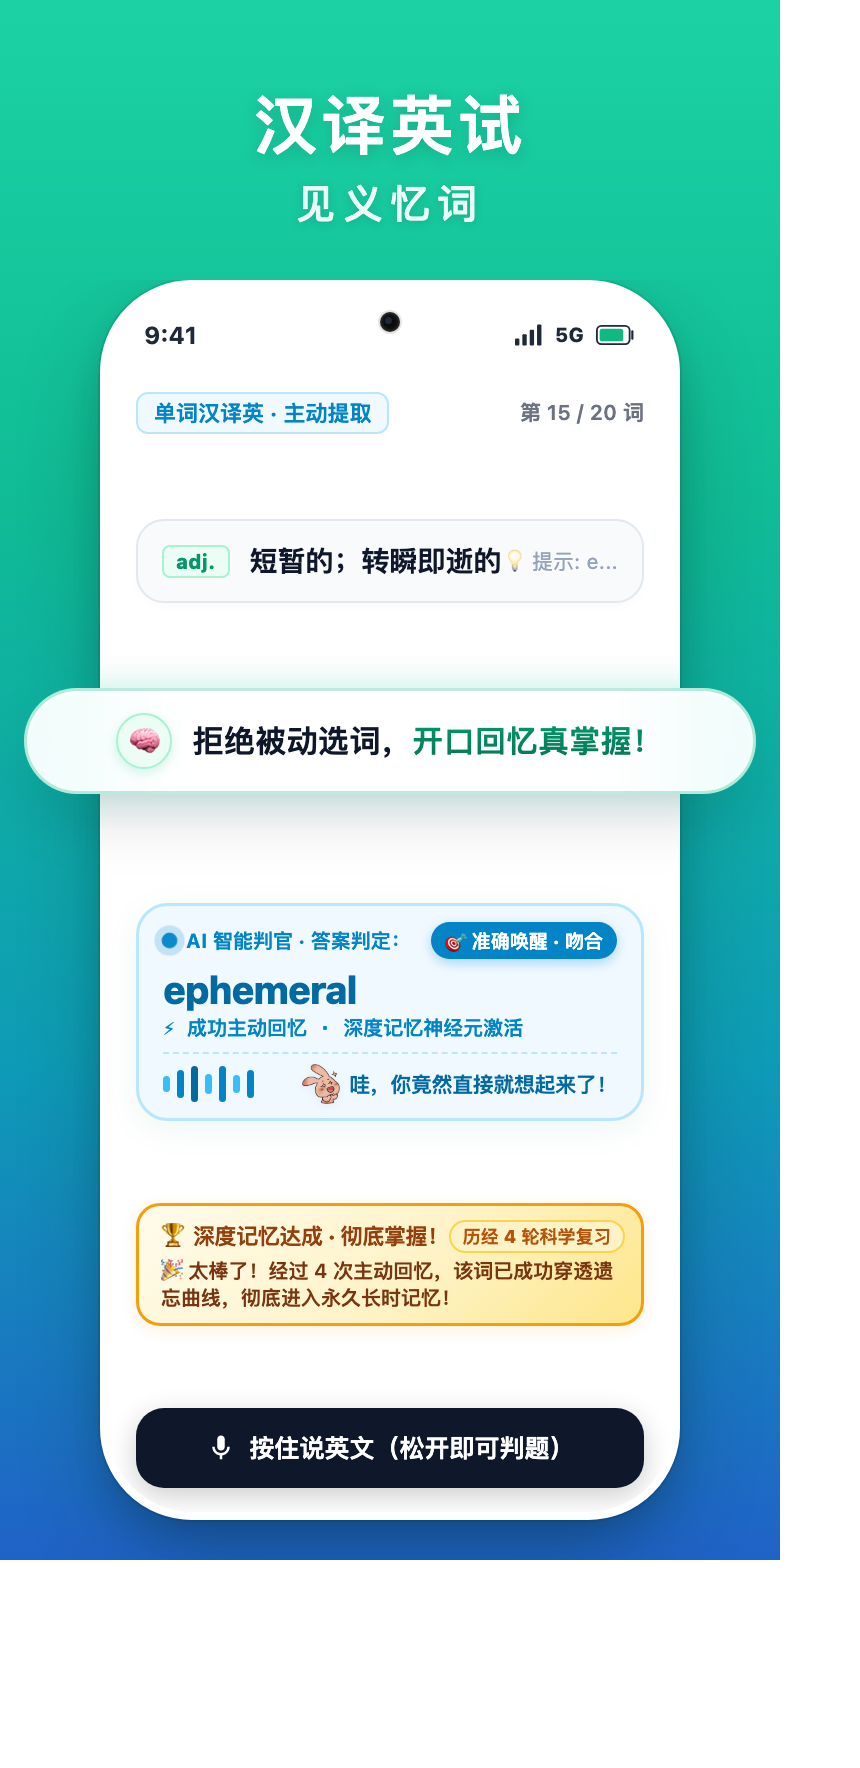
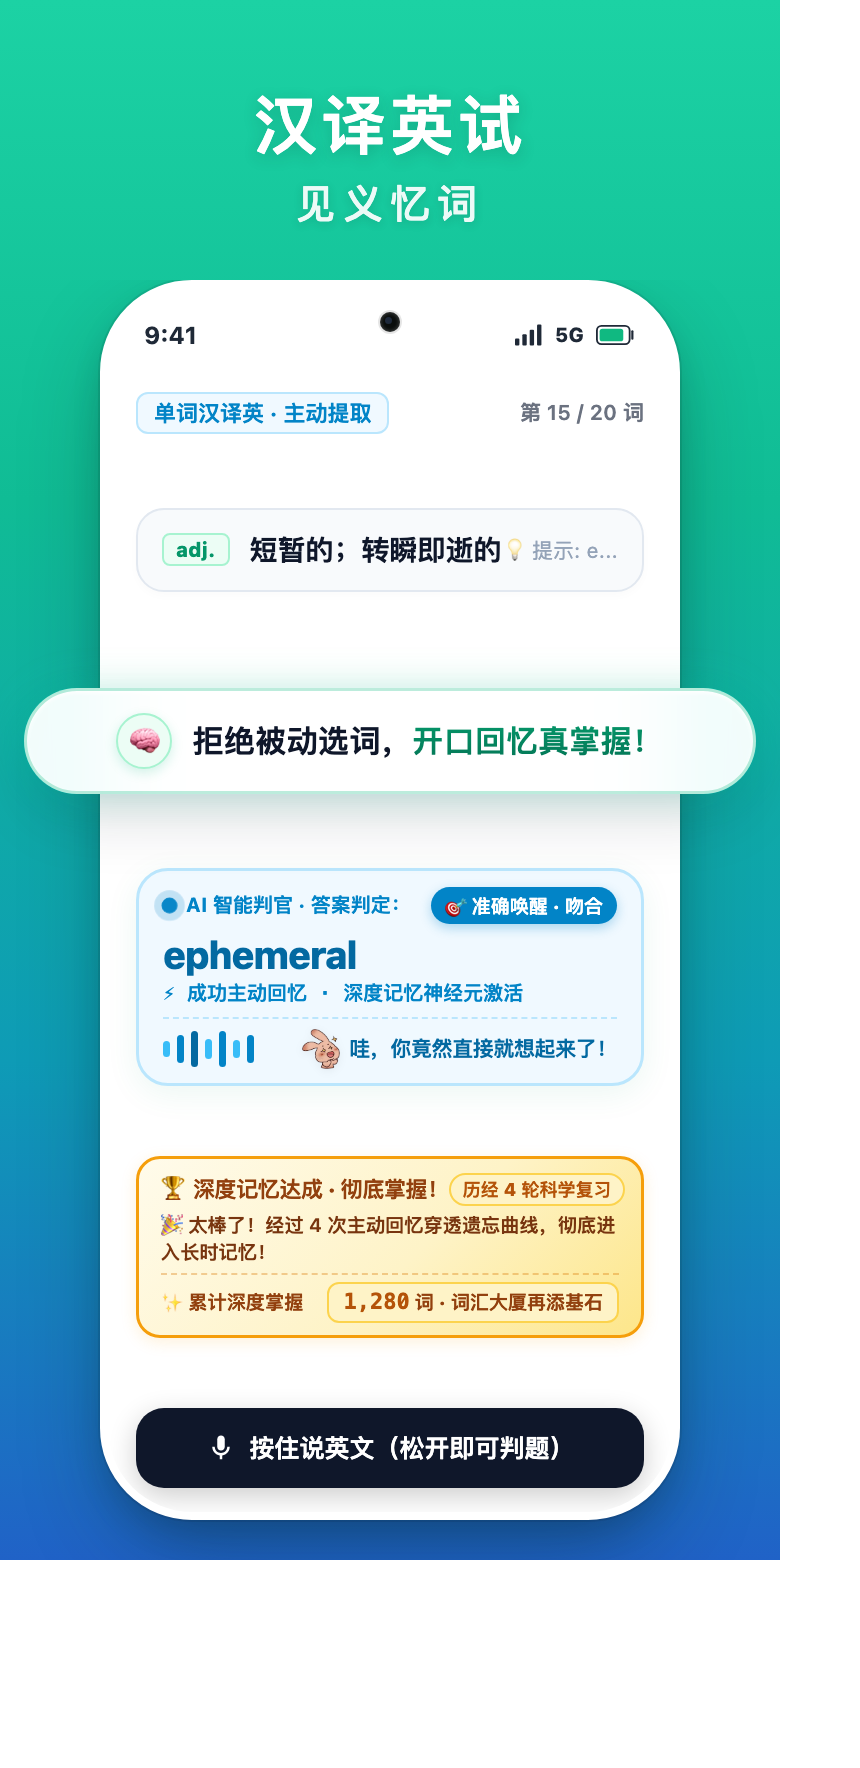
style: update app store preview layout and copy for word mastery card

Changed region(s): [[0.1512, 0.6533, 0.7558, 0.7777], [0.1512, 0.4977, 0.7558, 0.6222], [0.1814, 0.28, 0.6953, 0.3422]]

diff --git a/design/ui/app_store_minimal_clean_preview.html b/design/ui/app_store_minimal_clean_preview.html
@@ -1571,11 +1571,13 @@
                     </div>
                     <span style="font-size: 9px; font-weight: 800; color: #B45309; background: #FEF3C7; border: 1px solid #FCD34D; padding: 1px 6px; border-radius: 100px; white-space: nowrap;">历经 4 轮科学复习</span>
                   </div>
-                  <div style="font-size: 9.6px; color: #78350F; line-height: 1.38; font-weight: 600;">
-                    <div>🎉 太棒了！经过 4 次主动回忆，该词已成功穿透遗忘曲线，彻底进入长时记忆！</div>
-                    <div style="margin-top: 2px; color: #92400E; font-weight: 700; display: flex; align-items: center; gap: 2px;">
-                      <span>✨</span>
-                      <span>至此你已牢固掌握 <strong style="font-size: 11px; color: #B45309; font-weight: 900;">1,280</strong> 个单词，词汇大厦再添坚实基石！</span>
+                  <div style="font-size: 9.6px; color: #78350F; line-height: 1.4; font-weight: 600;">
+                    <div>🎉 太棒了！经过 4 次主动回忆穿透遗忘曲线，彻底进入长时记忆！</div>
+                    <div style="margin-top: 3.5px; padding-top: 3.5px; border-top: 1px dashed rgba(217, 119, 6, 0.35); display: flex; align-items: center; justify-content: space-between;">
+                      <span style="color: #92400E; font-weight: 700; white-space: nowrap;">✨ 累计深度掌握</span>
+                      <span style="font-size: 9.5px; font-weight: 800; color: #92400E; background: #FEF3C7; padding: 1.5px 7px; border-radius: 6px; border: 1px solid #FCD34D; white-space: nowrap;">
+                        <strong style="font-size: 11px; font-weight: 900; color: #B45309; font-family: ui-monospace, monospace;">1,280</strong> 词 · 词汇大厦再添基石
+                      </span>
                     </div>
                   </div>
                 </div>
